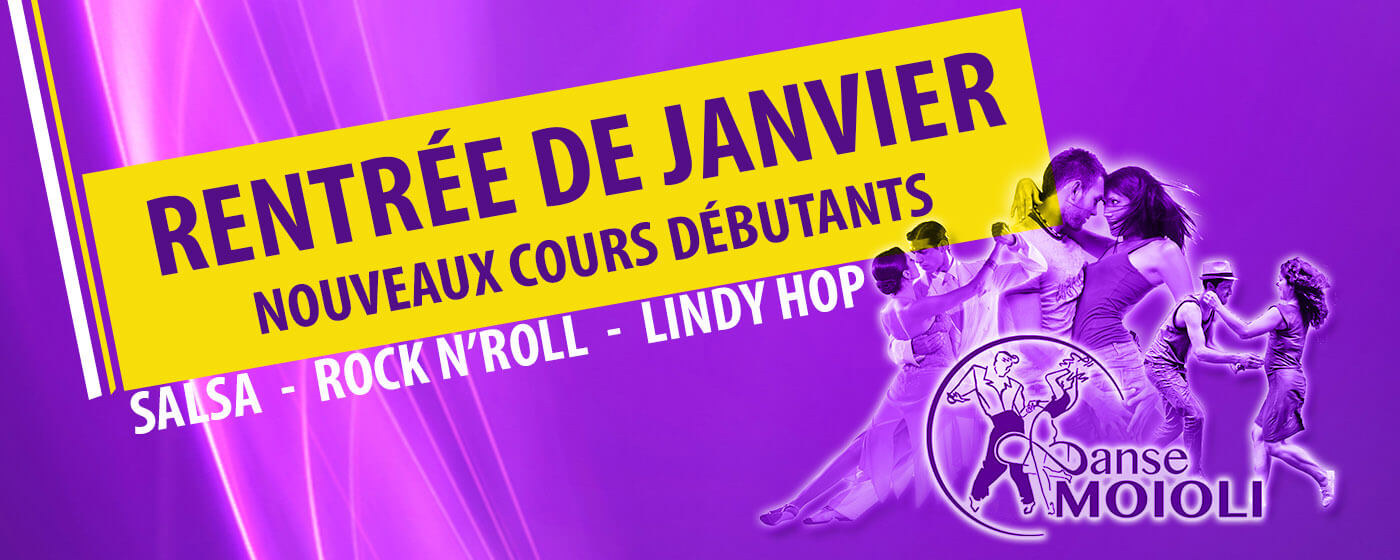
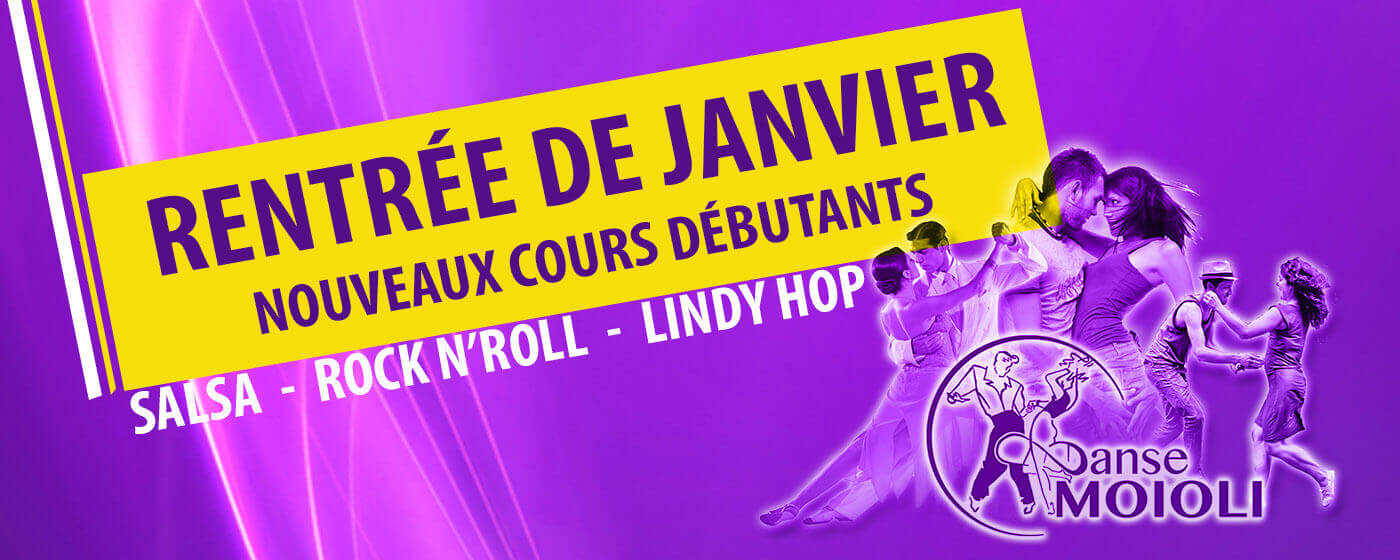
Recharger slider rentrée de janvier

diff --git a/_includes/slider.html b/_includes/slider.html
@@ -86,11 +86,11 @@
 
    // Ajout de slides en premier
 
-   /*
+
     files = [
-      [18, "left", "", "", '/images/BS rentree janvier 2022',],
+      [1, "left", "", "", '/images/BS rentree janvier 2022',],
     ].concat(files);
-   */
+  
 
 
     for (var i = 0; i < files.length; i++) {
